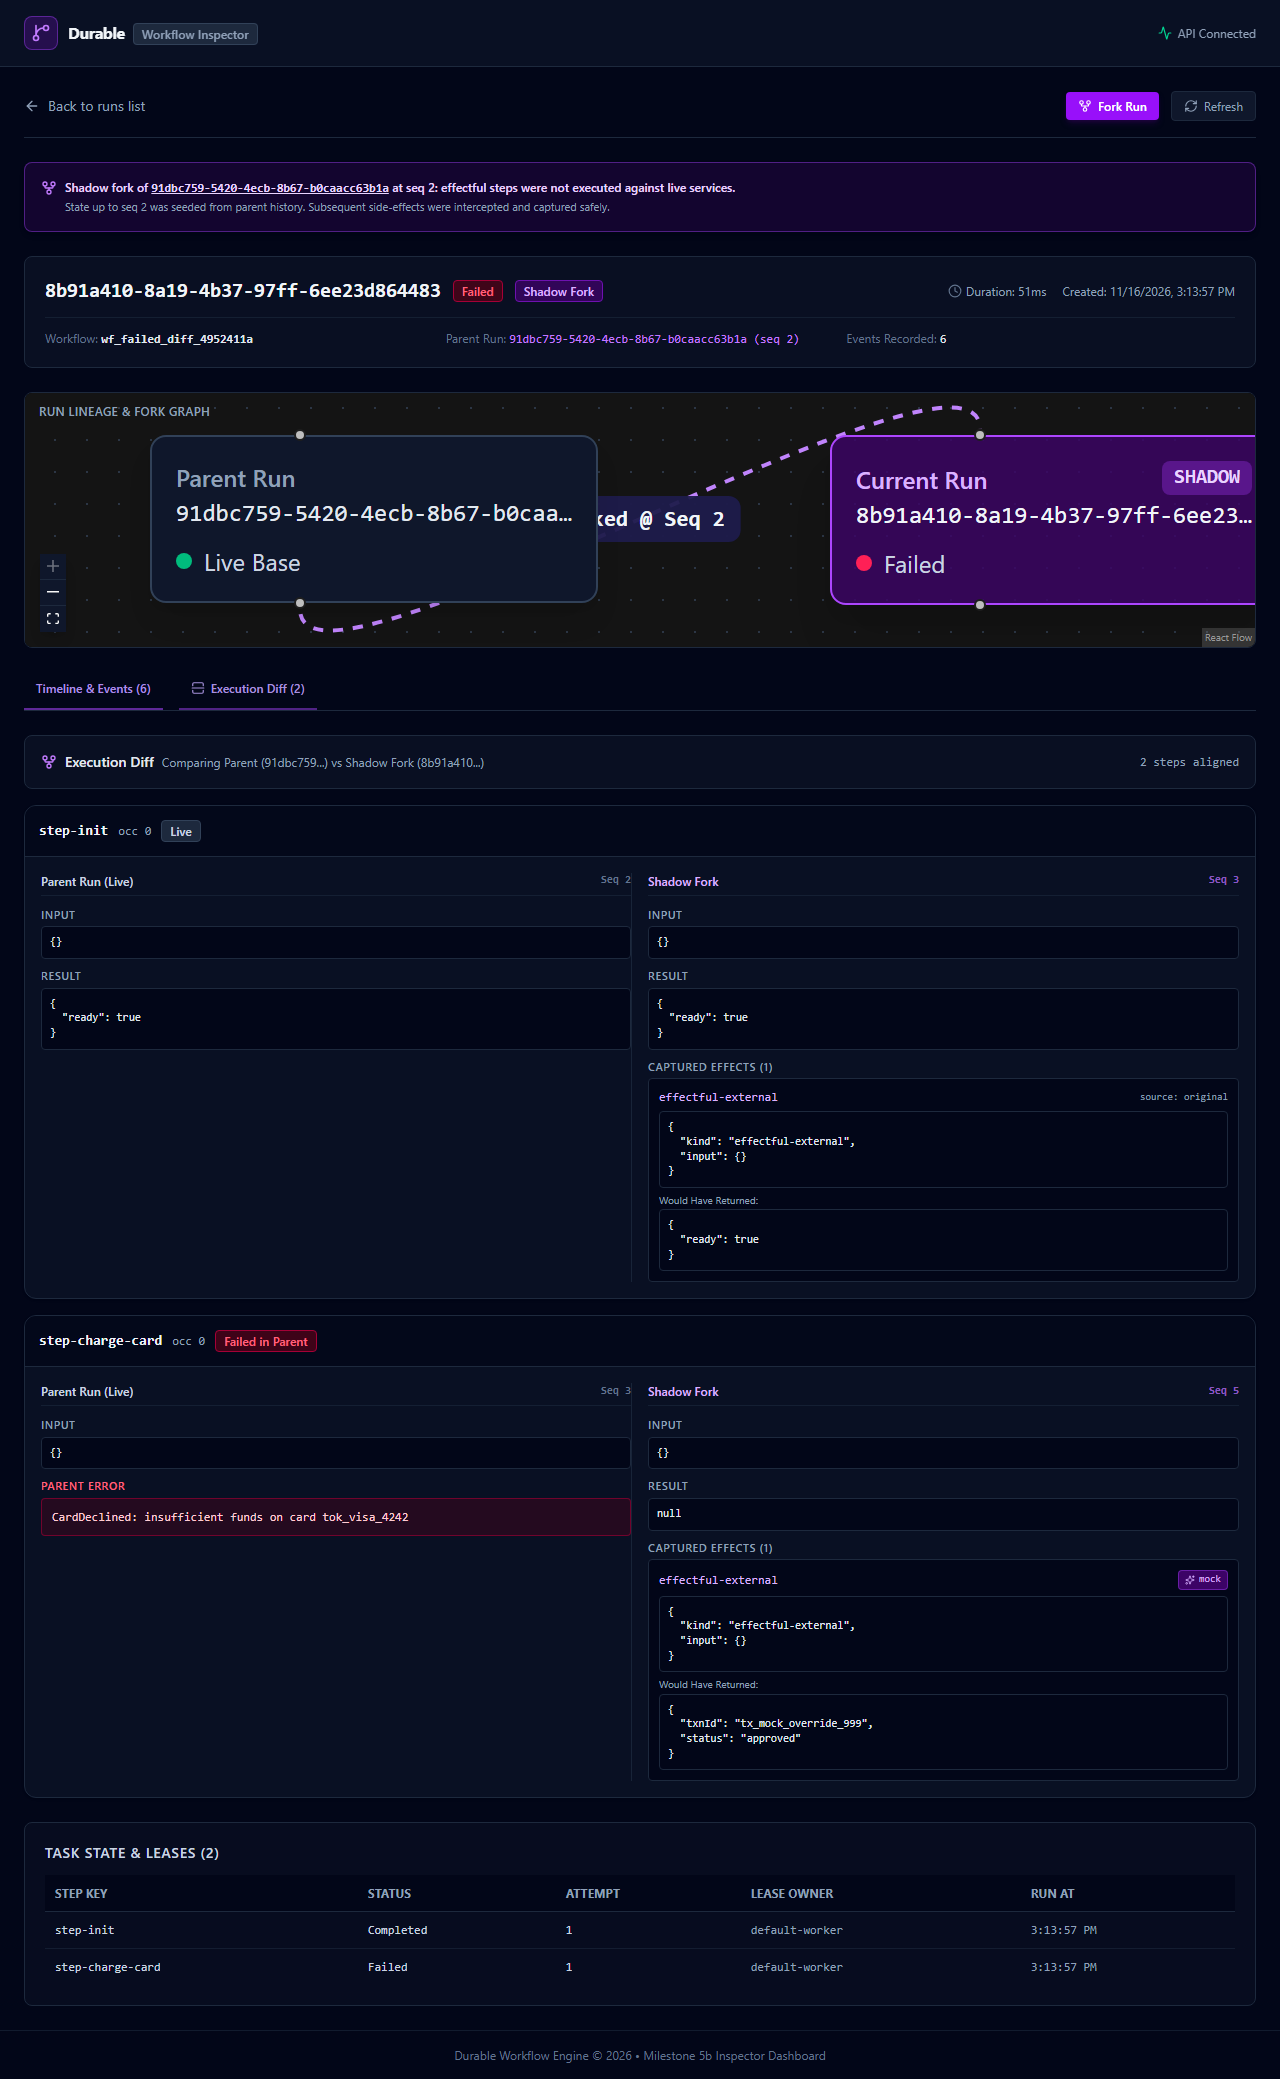
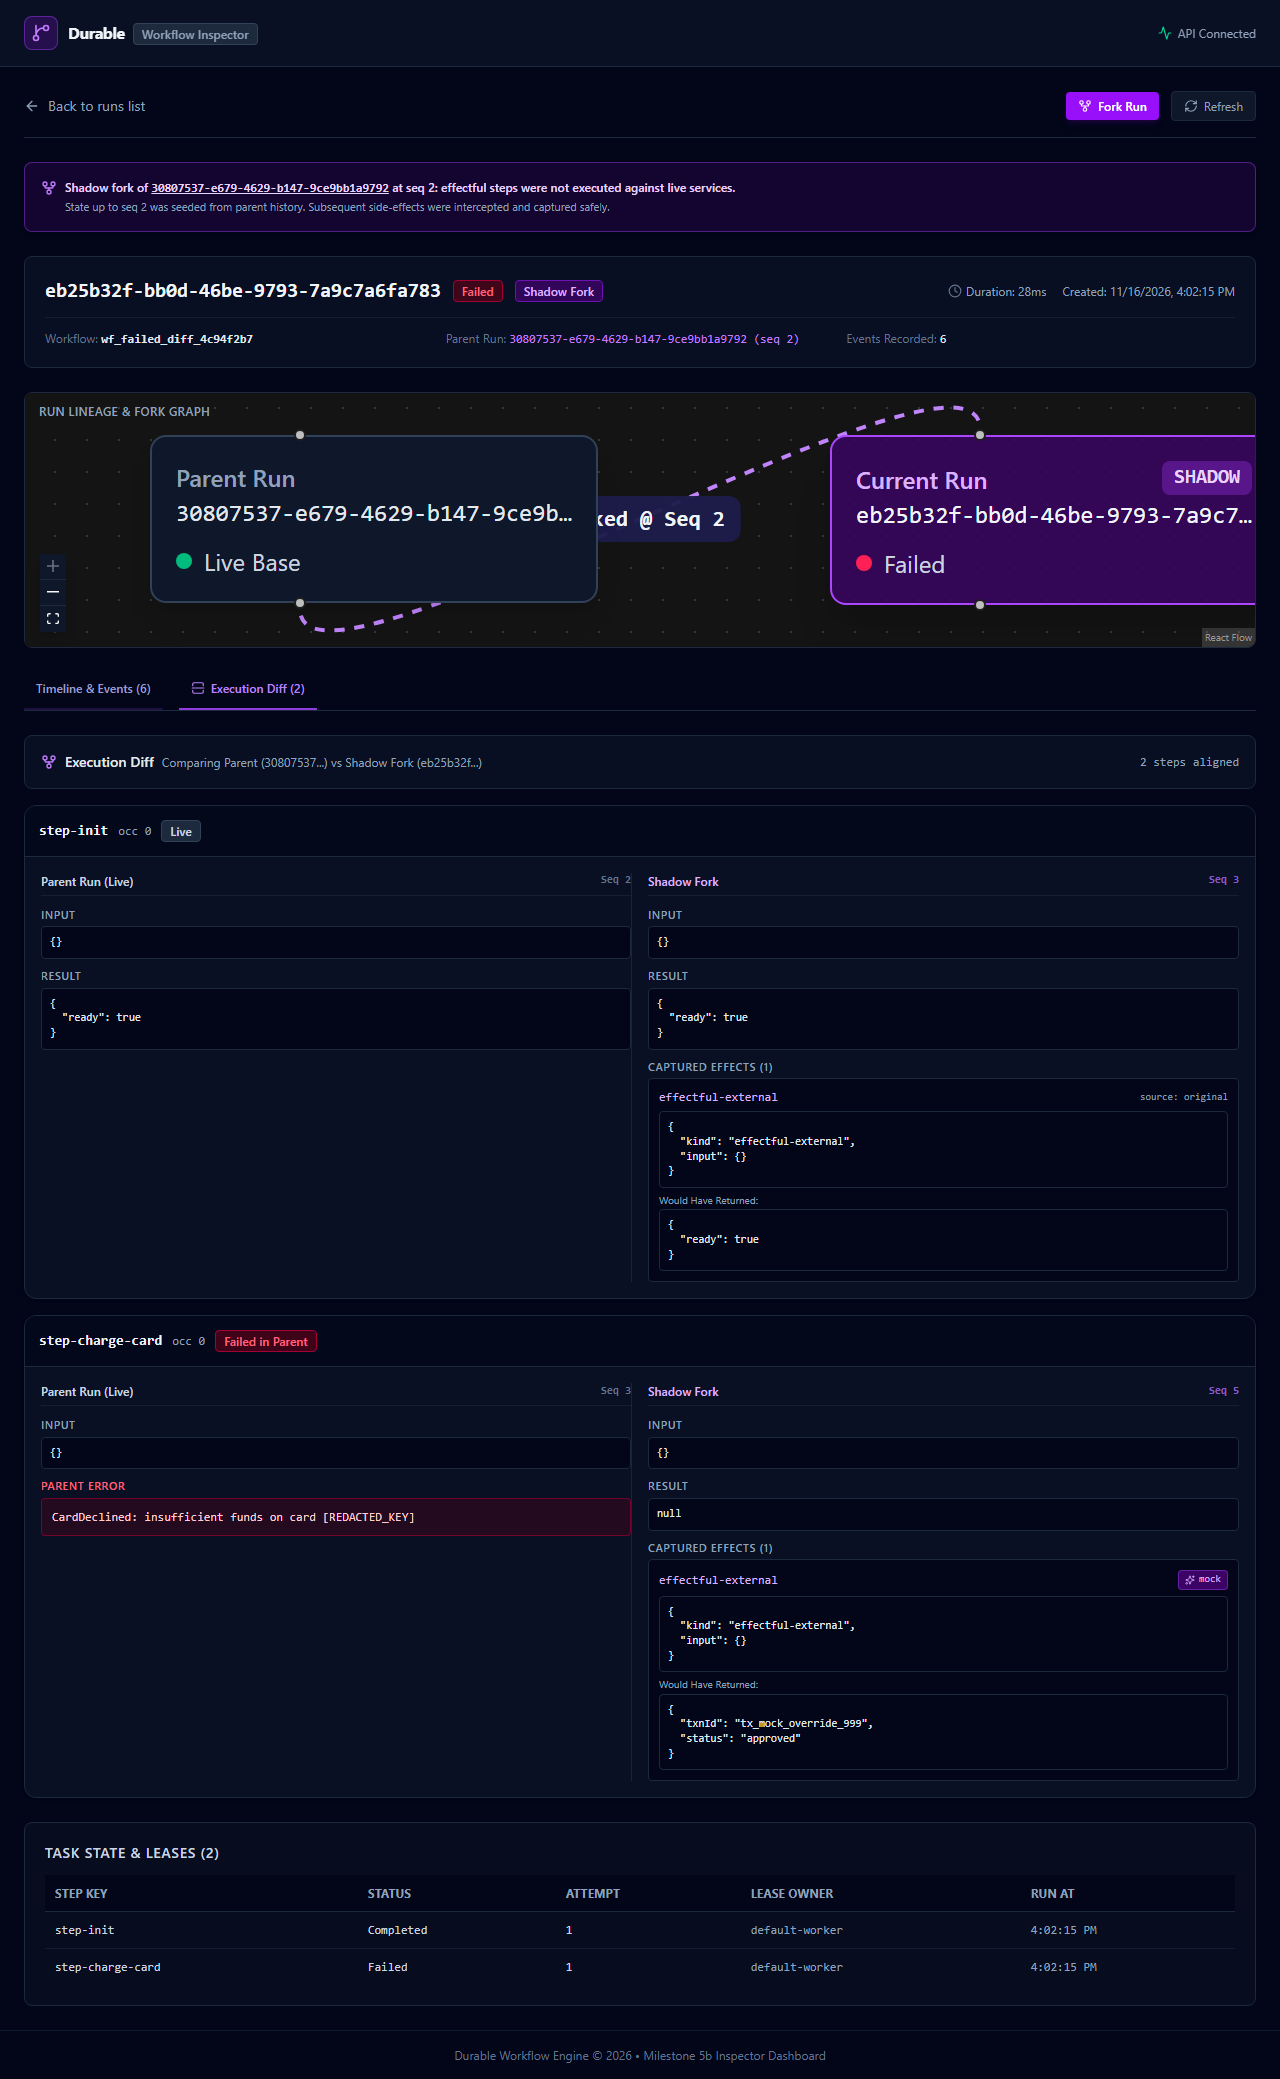
fix(redact): add tok_ token prefix to value-shape redaction patterns and update diff view assertions

diff --git a/packages/engine/test/shadow.test.ts b/packages/engine/test/shadow.test.ts
@@ -10,6 +10,7 @@ import {
   Engine,
   type ForkOptions,
   loadEvents,
+  makeIdempotencyKey,
   RunContext,
   redactApiOutput,
   redactHeaders,
@@ -145,6 +146,55 @@ describe("Milestone 4b - Shadow Mode", () => {
       expect(serializedEvents).not.toContain("secret_session_cookie");
       expect(serializedEvents).not.toContain("sensitive_data");
       expect(serializedEvents).not.toContain("my_api_key_xyz");
+    } finally {
+      await new Promise<void>((resolve) => server.close(() => resolve()));
+    }
+  });
+
+  it("live HTTP connector: request carries Idempotency-Key header received by server", async () => {
+    let receivedIdempotencyKey: string | undefined;
+    const server = http.createServer((req, res) => {
+      receivedIdempotencyKey = req.headers["idempotency-key"] as string | undefined;
+      res.writeHead(200, { "Content-Type": "application/json" });
+      res.end(JSON.stringify({ ok: true }));
+    });
+    await new Promise<void>((resolve) => server.listen(0, "127.0.0.1", () => resolve()));
+    const port = (server.address() as AddressInfo).port;
+    const url = `http://127.0.0.1:${port}/charge`;
+
+    try {
+      const wf = `wf_live_idempotency_${randomUUID().slice(0, 8)}`;
+      const engine = new Engine(pool, {
+        [wf]: async (ctx: Ctx) => {
+          return await ctx.step(
+            "payment-step",
+            async (_inp, sctx: StepContext) => {
+              const res = await sctx.http.fetch({
+                url,
+                method: "POST",
+                headers: {
+                  "Content-Type": "application/json",
+                  "Idempotency-Key": sctx.idempotencyKey,
+                },
+                body: { charge: 100 },
+              });
+              return res.body;
+            },
+            {},
+          );
+        },
+      });
+
+      const runId = await engine.startRun(wf, {});
+      const outcome = await engine.execute(runId);
+      expect(outcome.status).toBe("completed");
+
+      // Verify server received exact idempotency key: runId:payment-step
+      const expectedKey = makeIdempotencyKey(runId, "payment-step");
+      expect(receivedIdempotencyKey).toBe(expectedKey);
+      expect(receivedIdempotencyKey).toBe(`${runId}:payment-step`);
+
+      await pool.query("DELETE FROM tasks WHERE run_id = $1", [runId]);
     } finally {
       await new Promise<void>((resolve) => server.close(() => resolve()));
     }
@@ -1397,22 +1447,28 @@ describe("Milestone 4b - Shadow Mode", () => {
       expect(redactStringValue("bearer-token: sk-abcdef123456789012345678")).toBe(
         "bearer-token: [REDACTED_KEY]",
       );
+      expect(
+        redactStringValue("CardDeclined: insufficient funds on card tok_visa_4242"),
+      ).toBe("CardDeclined: insufficient funds on card [REDACTED_KEY]");
       const jwtToken =
         "eyJhbGciOiJIUzI1NiIsInR5cCI6IkpXVCJ9.eyJzdWIiOiIxMjM0NTY3ODkwIiwibmFtZSI6IkFsaWNlIn0.4SflKxwRJSMeKKF2QT4fwpMeJf36POk6yJV_adQssw5";
       const openaiKey = "sk-abcdef123456789012345678";
       const githubKey = "ghp_123456789012345678901234567890";
       const awsKey = "AKIAIOSFODNN7EXAMPLE";
+      const stripeToken = "tok_visa_4242";
 
       // 1. Headers (with non-sensitive field names)
       const headers = redactHeaders({
         "x-custom-jwt": jwtToken,
         "x-trace-id": `User session with ${openaiKey}`,
         "x-aws": awsKey,
+        "x-card": stripeToken,
         "x-normal": "harmless-value",
       });
       expect(headers["x-custom-jwt"]).toBe("[REDACTED_JWT]");
       expect(headers["x-trace-id"]).toBe("User session with [REDACTED_KEY]");
       expect(headers["x-aws"]).toBe("[REDACTED_KEY]");
+      expect(headers["x-card"]).toBe("[REDACTED_KEY]");
       expect(headers["x-normal"]).toBe("harmless-value");
 
       // 2. URL path & non-sensitive query parameter

diff --git a/packages/engine/src/connectors.ts b/packages/engine/src/connectors.ts
@@ -35,7 +35,7 @@ export interface CapturedEffect {
 
 /**
  * Best-effort redaction of sensitive patterns within string values:
- * Bearer tokens, JWT tokens, and common API key prefixes (sk-, ghp_, AKIA).
+ * Bearer tokens, JWT tokens, and common API key / token prefixes (sk-, ghp_, AKIA, tok_).
  */
 export function redactStringValue(val: string): string {
   return val
@@ -43,7 +43,8 @@ export function redactStringValue(val: string): string {
     .replace(/\beyJ[a-zA-Z0-9_-]{10,}\.[a-zA-Z0-9_-]{10,}\.[a-zA-Z0-9_-]{10,}\b/g, "[REDACTED_JWT]")
     .replace(/\bsk-[a-zA-Z0-9_-]{20,}\b/g, "[REDACTED_KEY]")
     .replace(/\bghp_[a-zA-Z0-9]{30,}\b/g, "[REDACTED_KEY]")
-    .replace(/\bAKIA[0-9A-Z]{16}\b/g, "[REDACTED_KEY]");
+    .replace(/\bAKIA[0-9A-Z]{16}\b/g, "[REDACTED_KEY]")
+    .replace(/\btok_[a-zA-Z0-9_]{4,}\b/g, "[REDACTED_KEY]");
 }
 
 export const SECRET_FIELD_ALLOWLIST = new Set([

diff --git a/packages/ui/e2e/inspector.spec.ts b/packages/ui/e2e/inspector.spec.ts
@@ -382,6 +382,8 @@ test("03. Diff View displays 'Failed in Parent' badge with parent error for fail
   const parentError = chargeStepCard.locator('[data-testid="diff-parent-error"]');
   await expect(parentError).toBeVisible();
   await expect(parentError).toContainText("CardDeclined: insufficient funds");
+  await expect(parentError).not.toContainText("tok_visa_4242");
+  await expect(parentError).toContainText("[REDACTED_KEY]");
 
   // Assert shadow side displays mock result
   await expect(chargeStepCard).toContainText("tx_mock_override_999");
